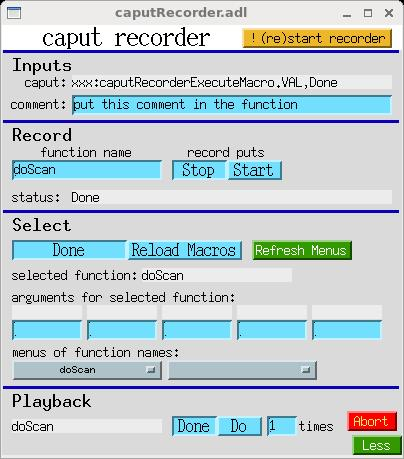
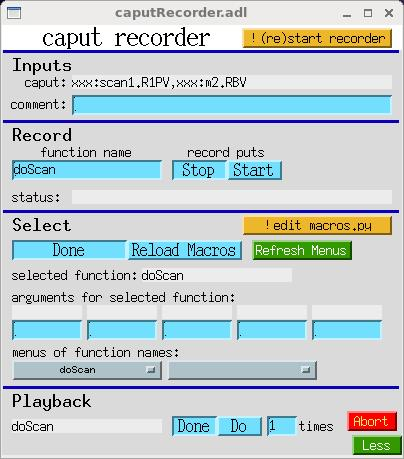
edit macros, access-security notes

diff --git a/documentation/caputRecorder.html b/documentation/caputRecorder.html
@@ -84,6 +84,11 @@ TRAPWRITE is in effect only for user <i>mooney</i> on workstation
 an ioc, but do want them for caputs from MEDM and channel-access clients that
 aren't in an ioc.
 
+<P>Note that the order in which rules occur in the file matters for TRAPWRITE. 
+If <code>RULE(1,WRITE)</code> were encountered before
+<code>RULE(1,WRITE,TRAPWRITE)</code>, TRAPWRITE would not be in effect for
+anybody, because everybody is covered by <code>RULE(1,WRITE)</code>.
+
 
 </blockquote>
 
@@ -99,7 +104,7 @@ database.
 <code>xxx</code>), and the file <i>macros.py</i> in
 <code>xxx/xxxApp/op/python</code>.  An example copy of
 <code>start_putrecorder</code> (from the synApps xxx module) is available as
-<code>caputRecorder/start_putrecorder</code>.
+<code>caputRecorder/example_start_putrecorder</code>.
 
 An example copy of <i>macros.py</i> is
 available as <code>caputRecorder/caputRecorderApp/op/python/example_macros.py</code>.
@@ -120,7 +125,7 @@ As implemented, the MEDM display presumes that the
 current working directory of the process running MEDM is
 <code>xxx/xxxApp/op/adl</code>, and it invokes the shell script
 <code>../../../start_putrecorder</code> to run the python program
-<code>caputRecorder/caputRecorderApp/op/python/caputRecorder.py</code> The
+<code>caputRecorder/caputRecorderApp/op/python/caputRecorder.py</code>. The
 example version of <i>start_putrecorder</i> tries to ensure that only one copy of
 <i>caputRecorder.py</i> is running.
 </blockquote>
@@ -156,12 +161,15 @@ recording.
 
 <ul>
 
+<li><P>The button labelled "edit macros.py" invokes the command named by
+the environment variable EDITOR on the file <i>macros.py</i>.
+
 <li><P>Normally, you should not have to press the "Reload Macros" button,
 because <i>caputRecorder.py</i> reloads automatically after a new function has
-been recorded. However, you are allowed to edit the <i>macros.py</i> file manually.  If
-you do so, you must press "Reload Macros" to tell <i>caputRecorder.py</i> to reread the
-file. (If you deleted a function from <i>macros.py</i>, reloading isn't sufficient; you
-must restart <i>caputRecorder.py</i>, using the "(re)start recorder" button.)
+been recorded. However, if you edit <i>macros.py</i> manually, you must press
+"Reload Macros" to tell <i>caputRecorder.py</i> to reread the file. (If you
+deleted a function from <i>macros.py</i>, reloading isn't sufficient; you must
+restart <i>caputRecorder.py</i>, using the "(re)start recorder" button.)
 
 <li><P>The "Refresh Menus" button is needed whenever <i>macros.py</i> has changed, whether
 by recording a function, or by manually editing the file.
